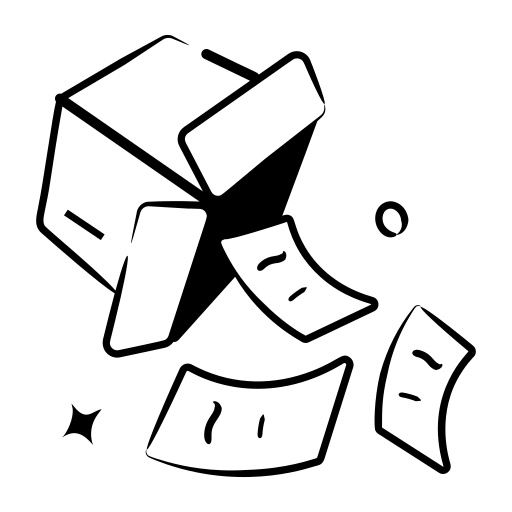
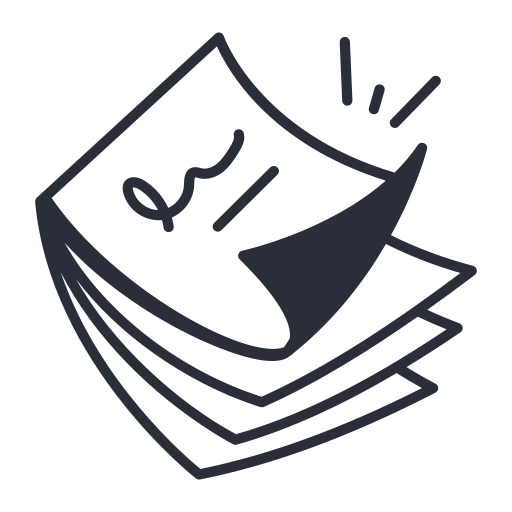
feat(fallback): enhance fallback page layout and styling
- update main structure for better alignment and centering
- improve image alt text for better accessibility
- enhance button styling for improved user experience

diff --git a/pulseflow-dashboard/src/pages/Fallback.tsx b/pulseflow-dashboard/src/pages/Fallback.tsx
@@ -1,12 +1,20 @@
 export default function Fallback({ message }: { message?: string }) {
   return (
-    <main>
+    <main className="absolute top-[50%] left-[50%] translate-x-[-50%] translate-y-[-50%] flex flex-col justify-center items-center gap-gap-lg">
       <img
+        className="w-[75px]"
         src="/public/images/fallback-hero.png"
-        alt="Imagem de uma caixa despejando papeis. Imagem hero para a página de fallback."
+        alt="Imagem de um bloco de notas. Imagem hero para a página de fallback."
       />
-      <p>{message ?? "Oops... Não queremos ficar por aqui."}</p>
-      <a href="/">Voltar ao Dashboard</a>
+      <p className="text-text-secondary text-base text-center">
+        {message ?? "Oops... Não queremos ficar por aqui."}
+      </p>
+      <a
+        className="transition-all duration-[.125s] main-border border-primary font-medium text-primary px-[15px] py-[5px] rounded-md text-nowrap text-center bg-transparent  hover:bg-primary-foreground hover:border-primary-foreground active:bg-primary active:text-primary-foreground"
+        href="/"
+      >
+        Voltar ao Dashboard
+      </a>
     </main>
   );
 }
